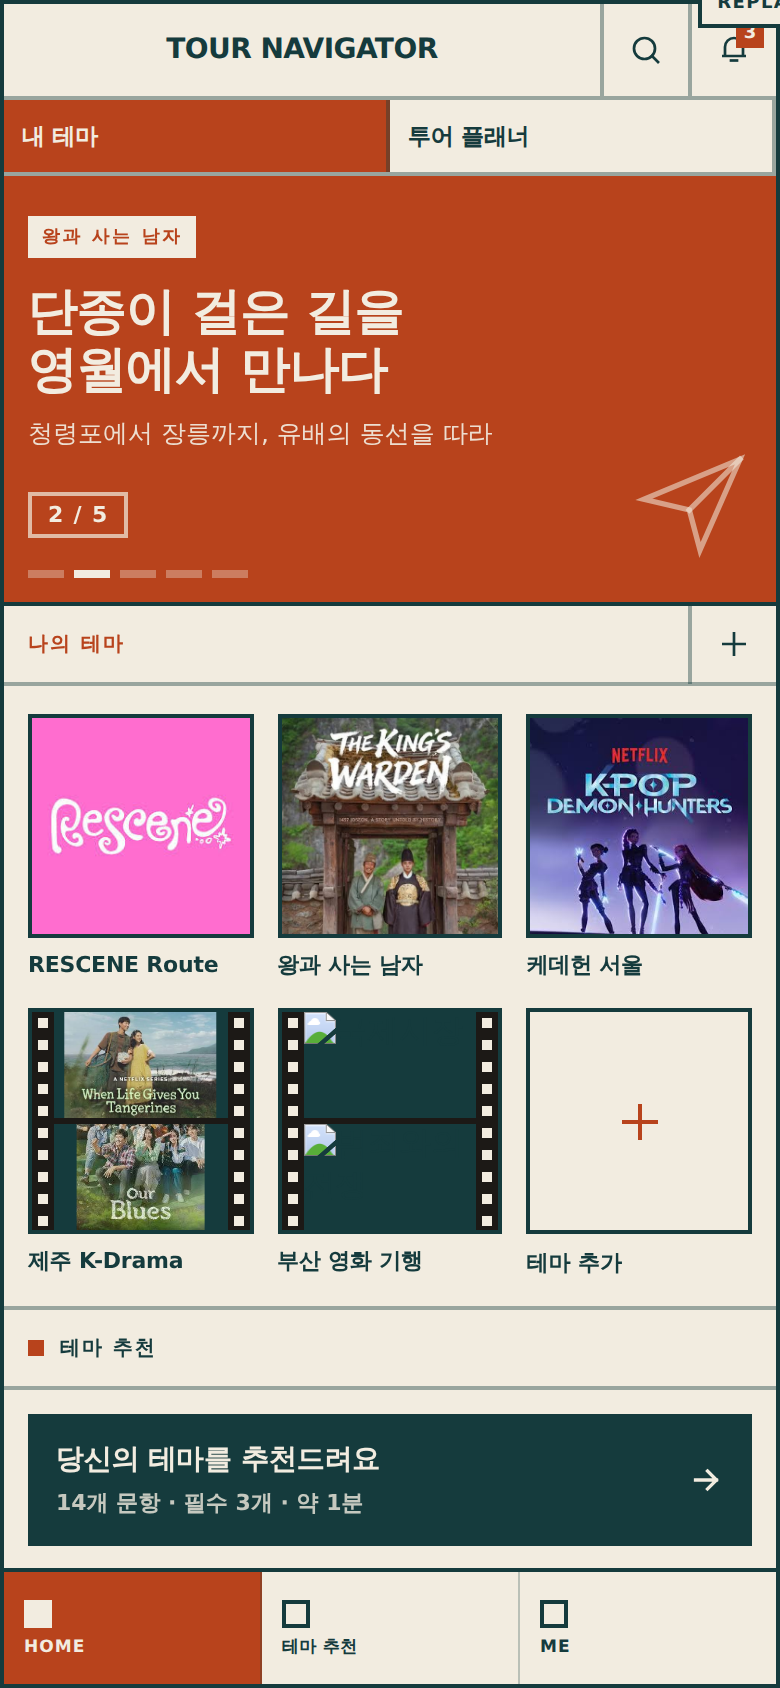
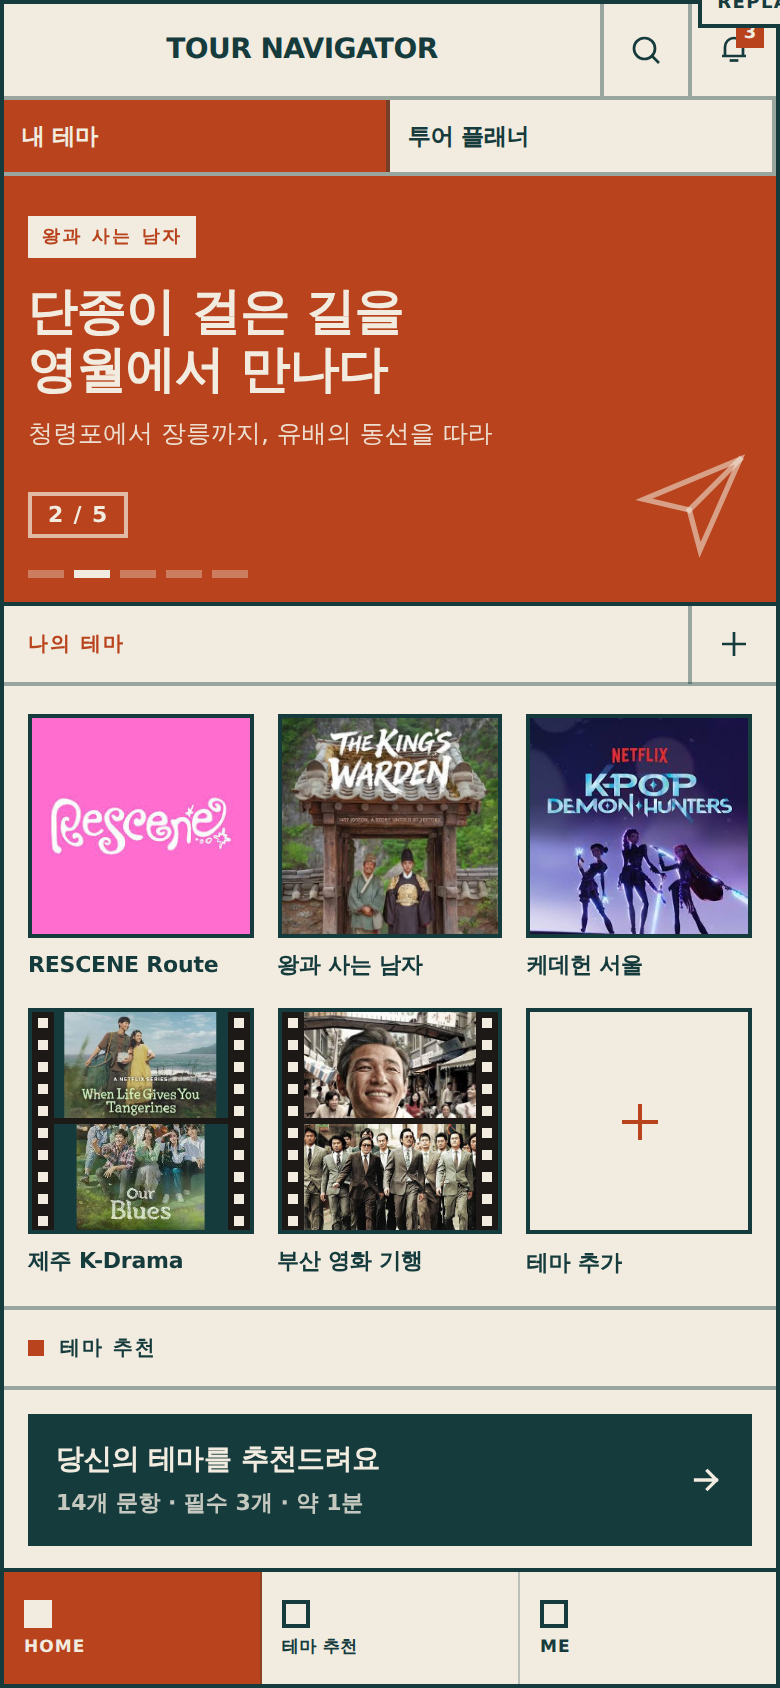
Add the two Busan tile posters the home screen references
uploads/images (23).jpg (국제시장) and (24).jpg (범죄와의 전쟁) were
missing from the design export; the home screen's 부산 영화 기행 tile
now renders. README home screenshot retaken.

Claude-Session: https://claude.ai/code/session_01BBDwQ9r6aFqPRaPMDHpUkk

Changed region(s): [[0.3692, 0.5853, 0.6154, 0.7393]]

diff --git a/CHANGELOG.md b/CHANGELOG.md
@@ -9,7 +9,7 @@
 - 설계 쪽에서 추가된 기능: 광역교통 2단계 선택(광역교통 · 현지 이동)과 수단별 출발·귀가지 필터, 광역 이동 체인(출발지 → 환승 관문 → 도착 관문)과 시각표 · 복수 경로 선택 · 환승 관문 변경, 도시철도 호선 → 역 선택, 자가용 확인 카드, 제주 카페리(자가용 + 배), 일자별 장소 추가, 코스빌더 저장·덮어쓰기
 - 내 플랜: 플래너와 테마 5종에서 코스를 이름 붙여 저장 · 불러오기 · 삭제. 배편 시간표(제주 · 울릉). 홈의 테마 추천(14문항 → 여행자 유형 → 추천 테마)과 ME 화면
 - 설계 쪽이 화면 안에 다시 넣었던 미세먼지 줄 · TMDB 작품 카드는 그대로 두고 함수만 `shared.js` 것을 쓰도록 연결. 플래너의 "여행 기간 행사 · 축제" 는 내보내기본에 없어 다시 붙임
-- 홈이 참조하는 `uploads/images (23).jpg` · `(24).jpg` (부산 타일: 국제시장 · 범죄와의 전쟁) 는 내보내기본에 들어 있지 않아 아직 없음
+- 홈 부산 타일 이미지 `uploads/images (23).jpg` · `(24).jpg` (국제시장 · 범죄와의 전쟁 포스터) 추가 — 내보내기본에 빠져 있던 것을 별도로 받아 넣음
 
 ### 정리
 - 코드가 읽지 않는 원자료 `assets/story-db.csv`(2.1MB) 제거 — 매칭 결과 `story-matched.json` 은 유지, 원본은 이력 커밋 0298fe1 에 있음
